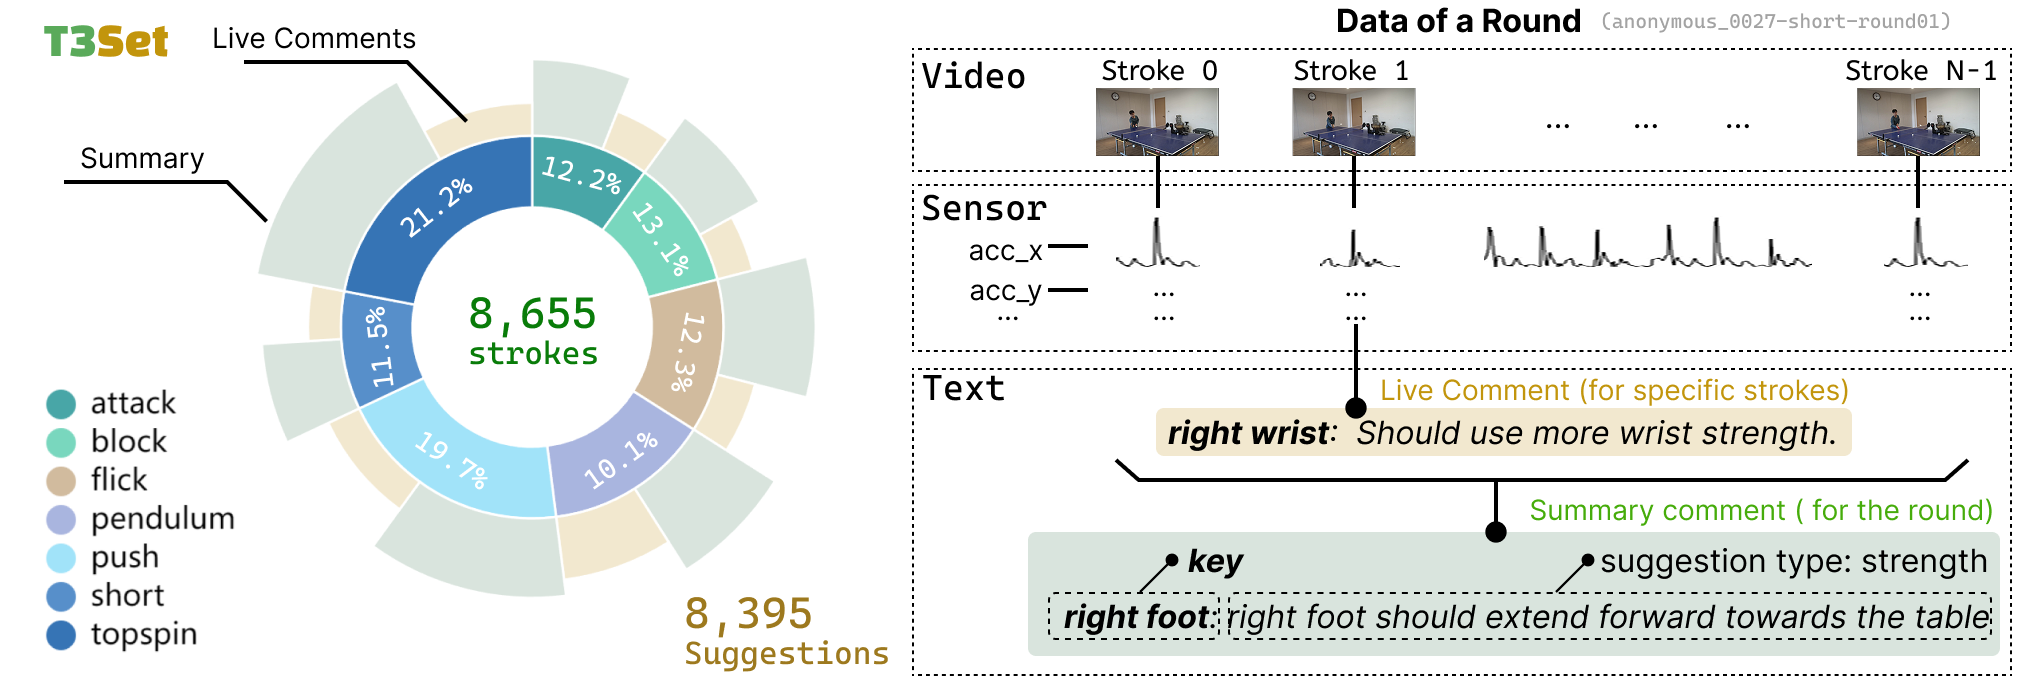
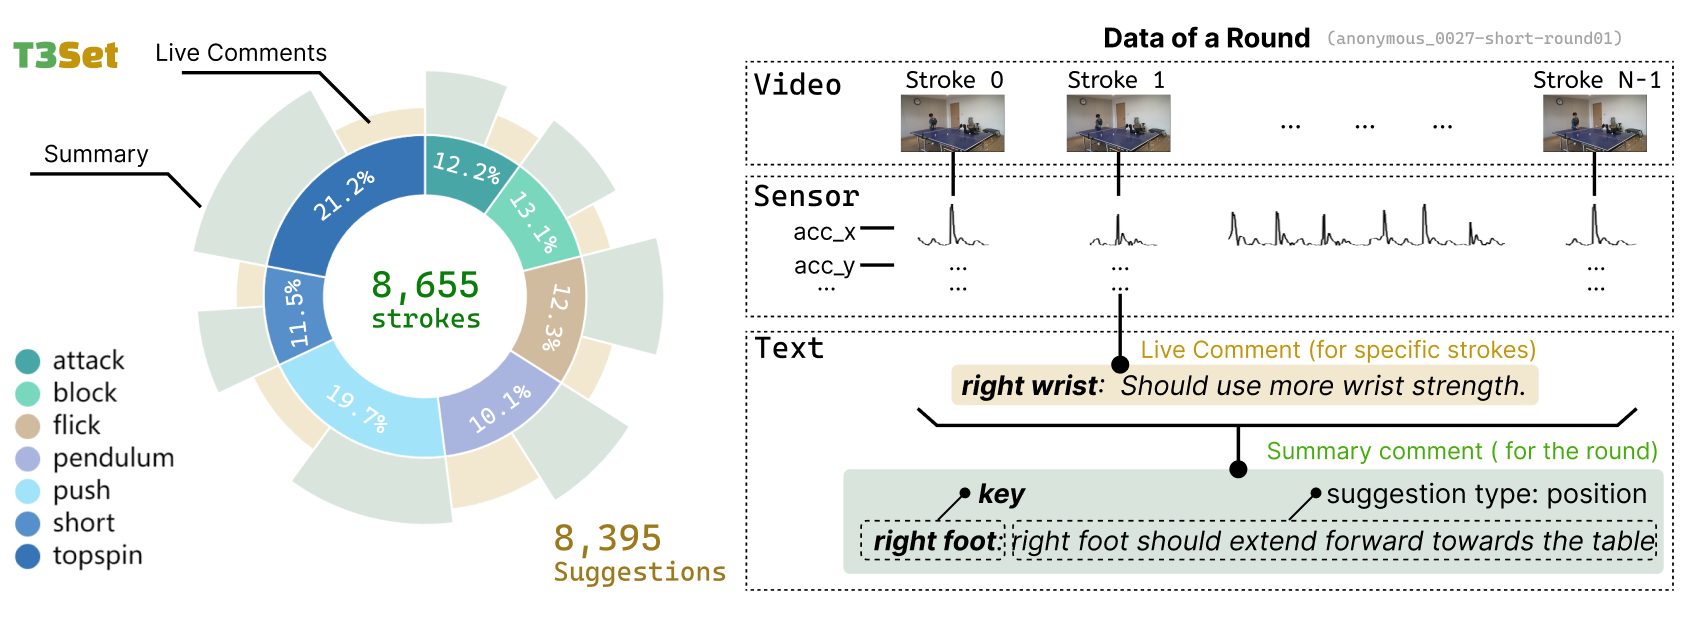
update photo

diff --git a/docs/index.html b/docs/index.html
@@ -1,4 +1,4 @@
-<!DOCTYPE html><html lang="en"> <head><meta charset="UTF-8"><meta name="viewport" content="width=device-width, initial-scale=1"><meta name="description" content="Academic homepage of Ji Ma, a Computer Science Ph.D. candidate at Zhejiang University working on large language models, embodied intelligence, sports simulation, and table tennis AI."><meta name="author" content="Ji Ma"><meta name="theme-color" content="#102a43"><meta name="google-site-verification" content="JXEkyX1DeHxBDKft52NhY3MqoGW9yzHQRpCOGvV5oHY"><link rel="canonical" href="https://jima-cs.github.io/"><link rel="icon" type="image/svg+xml" href="/favicon.svg"><link rel="manifest" href="/manifest.json"><meta property="og:type" content="profile"><meta property="og:title" content="Ji Ma | Computer Science Ph.D. Candidate"><meta property="og:description" content="Academic homepage of Ji Ma, a Computer Science Ph.D. candidate at Zhejiang University working on large language models, embodied intelligence, sports simulation, and table tennis AI."><meta property="og:url" content="https://jima-cs.github.io/"><meta property="og:image" content="https://jima-cs.github.io/imgs/mj/maji.jpg"><meta name="twitter:card" content="summary"><meta name="twitter:title" content="Ji Ma | Computer Science Ph.D. Candidate"><meta name="twitter:description" content="Academic homepage of Ji Ma, a Computer Science Ph.D. candidate at Zhejiang University working on large language models, embodied intelligence, sports simulation, and table tennis AI."><meta name="twitter:image" content="https://jima-cs.github.io/imgs/mj/maji.jpg"><title>Ji Ma | Computer Science Ph.D. Candidate</title><link rel="stylesheet" href="/_astro/index.0VPhfHnk.css"></head> <body> <a class="skip-link" href="#main-content">Skip to content</a>  <script type="application/ld+json">{"@context":"https://schema.org","@type":"Person","name":"Ji Ma","alternateName":"马骥","url":"https://jima-cs.github.io/","image":"https://jima-cs.github.io/imgs/mj/maji.jpg","jobTitle":"Ph.D. Candidate in Computer Science","affiliation":{"@type":"CollegeOrUniversity","name":"Zhejiang University"},"sameAs":["https://scholar.google.com/citations?user=vz6ryCwAAAAJ&hl=en"],"knowsAbout":["Data Mining","Large Language Models","Embodied Intelligence","Computer Vision","AI4Sports","Multi-Modality"]}</script> <header class="site-header"> <div class="header-inner"> <a class="brand" href="#top" aria-label="Ji Ma — back to top"> <span>Ji Ma</span><span class="brand-zh">马骥</span> </a> <nav aria-label="Main navigation"> <a href="#about">About</a> <a href="#news">News</a> <a href="#publications">Publications</a> <a href="#experience">Experience</a> <a href="/zh-cn/" lang="zh-CN">中文</a> </nav> </div> </header> <main id="main-content"> <section id="top" class="hero page-shell" aria-labelledby="page-title"> <div class="portrait-wrap"> <img class="portrait" src="/imgs/mj/maji.jpg" alt="Portrait of Ji Ma"> </div> <div class="hero-copy"> <p class="eyebrow">Ph.D. Candidate in Computer Science</p> <h1 id="page-title">Ji Ma <span>马骥</span></h1> <p class="affiliation"><svg xmlns="http://www.w3.org/2000/svg" stroke-width="2" width="16" height="16" stroke="currentColor" stroke-linecap="round" stroke-linejoin="round" fill="none" viewBox="0 0 24 24" aria-hidden="true" class="lucide lucide-map-pin">  <path d="M20 10c0 4.993-5.539 10.193-7.399 11.799a1 1 0 0 1-1.202 0C9.539 20.193 4 14.993 4 10a8 8 0 0 1 16 0"></path> <circle cx="12" cy="10" r="3"></circle>  </svg> Zhejiang University · Hangzhou, China</p> <div id="about" class="about-copy"><p>Hi! I am Ji Ma (马骥). I am a CS Ph.D. candidate at the State Key Lab of CAD&amp;CG,
+<!DOCTYPE html><html lang="en"> <head><meta charset="UTF-8"><meta name="viewport" content="width=device-width, initial-scale=1"><meta name="description" content="Academic homepage of Ji Ma, a Computer Science Ph.D. candidate at Zhejiang University working on large language models, embodied intelligence, sports simulation, and table tennis AI."><meta name="author" content="Ji Ma"><meta name="theme-color" content="#102a43"><meta name="google-site-verification" content="JXEkyX1DeHxBDKft52NhY3MqoGW9yzHQRpCOGvV5oHY"><link rel="canonical" href="https://jima-cs.github.io/"><link rel="icon" type="image/svg+xml" href="/favicon.svg"><link rel="manifest" href="/manifest.json"><meta property="og:type" content="profile"><meta property="og:title" content="Ji Ma | Computer Science Ph.D. Candidate"><meta property="og:description" content="Academic homepage of Ji Ma, a Computer Science Ph.D. candidate at Zhejiang University working on large language models, embodied intelligence, sports simulation, and table tennis AI."><meta property="og:url" content="https://jima-cs.github.io/"><meta property="og:image" content="https://jima-cs.github.io/imgs/mj/mj001.jpg"><meta name="twitter:card" content="summary"><meta name="twitter:title" content="Ji Ma | Computer Science Ph.D. Candidate"><meta name="twitter:description" content="Academic homepage of Ji Ma, a Computer Science Ph.D. candidate at Zhejiang University working on large language models, embodied intelligence, sports simulation, and table tennis AI."><meta name="twitter:image" content="https://jima-cs.github.io/imgs/mj/mj001.jpg"><title>Ji Ma | Computer Science Ph.D. Candidate</title><link rel="stylesheet" href="/_astro/index.0VPhfHnk.css"></head> <body> <a class="skip-link" href="#main-content">Skip to content</a>  <script type="application/ld+json">{"@context":"https://schema.org","@type":"Person","name":"Ji Ma","alternateName":"马骥","url":"https://jima-cs.github.io/","image":"https://jima-cs.github.io/imgs/mj/mj001.jpg","jobTitle":"Ph.D. Candidate in Computer Science","affiliation":{"@type":"CollegeOrUniversity","name":"Zhejiang University"},"sameAs":["https://scholar.google.com/citations?user=vz6ryCwAAAAJ&hl=en"],"knowsAbout":["Data Mining","Large Language Models","Embodied Intelligence","Computer Vision","AI4Sports","Multi-Modality"]}</script> <header class="site-header"> <div class="header-inner"> <a class="brand" href="#top" aria-label="Ji Ma — back to top"> <span>Ji Ma</span><span class="brand-zh">马骥</span> </a> <nav aria-label="Main navigation"> <a href="#about">About</a> <a href="#news">News</a> <a href="#publications">Publications</a> <a href="#experience">Experience</a> <a href="/zh-cn/" lang="zh-CN">中文</a> </nav> </div> </header> <main id="main-content"> <section id="top" class="hero page-shell" aria-labelledby="page-title"> <div class="portrait-wrap"> <img class="portrait" src="/imgs/mj/mj001.jpg" alt="Portrait of Ji Ma"> </div> <div class="hero-copy"> <p class="eyebrow">Ph.D. Candidate in Computer Science</p> <h1 id="page-title">Ji Ma <span>马骥</span></h1> <p class="affiliation"><svg xmlns="http://www.w3.org/2000/svg" stroke-width="2" width="16" height="16" stroke="currentColor" stroke-linecap="round" stroke-linejoin="round" fill="none" viewBox="0 0 24 24" aria-hidden="true" class="lucide lucide-map-pin">  <path d="M20 10c0 4.993-5.539 10.193-7.399 11.799a1 1 0 0 1-1.202 0C9.539 20.193 4 14.993 4 10a8 8 0 0 1 16 0"></path> <circle cx="12" cy="10" r="3"></circle>  </svg> Zhejiang University · Hangzhou, China</p> <div id="about" class="about-copy"><p>Hi! I am Ji Ma (马骥). I am a CS Ph.D. candidate at the State Key Lab of CAD&amp;CG,
 <a href="https://www.zju.edu.cn/english/">Zhejiang University</a>, supervised by
 <a href="http://www.ycwu.org/">Prof. Yingcai Wu</a> and <a href="https://wjc-vis.com">Prof. Jiachen Wang</a>. My research interests lie in Sports Data Mining and Human-Centric AI. I focus on incorporating professional domain knowledge into data-driven models to democratize elite sports expertise. Specifically, I utilized multimodal sensing, embodied AI and LLMs to enable intelligent coaching and automated tactical analysis in table tennis.</p>
 <p>I love running. I am a core committee member and a pacer for the Kuafu Running Club at Zhejiang University, a community of more than 1,600 student runners.</p>
